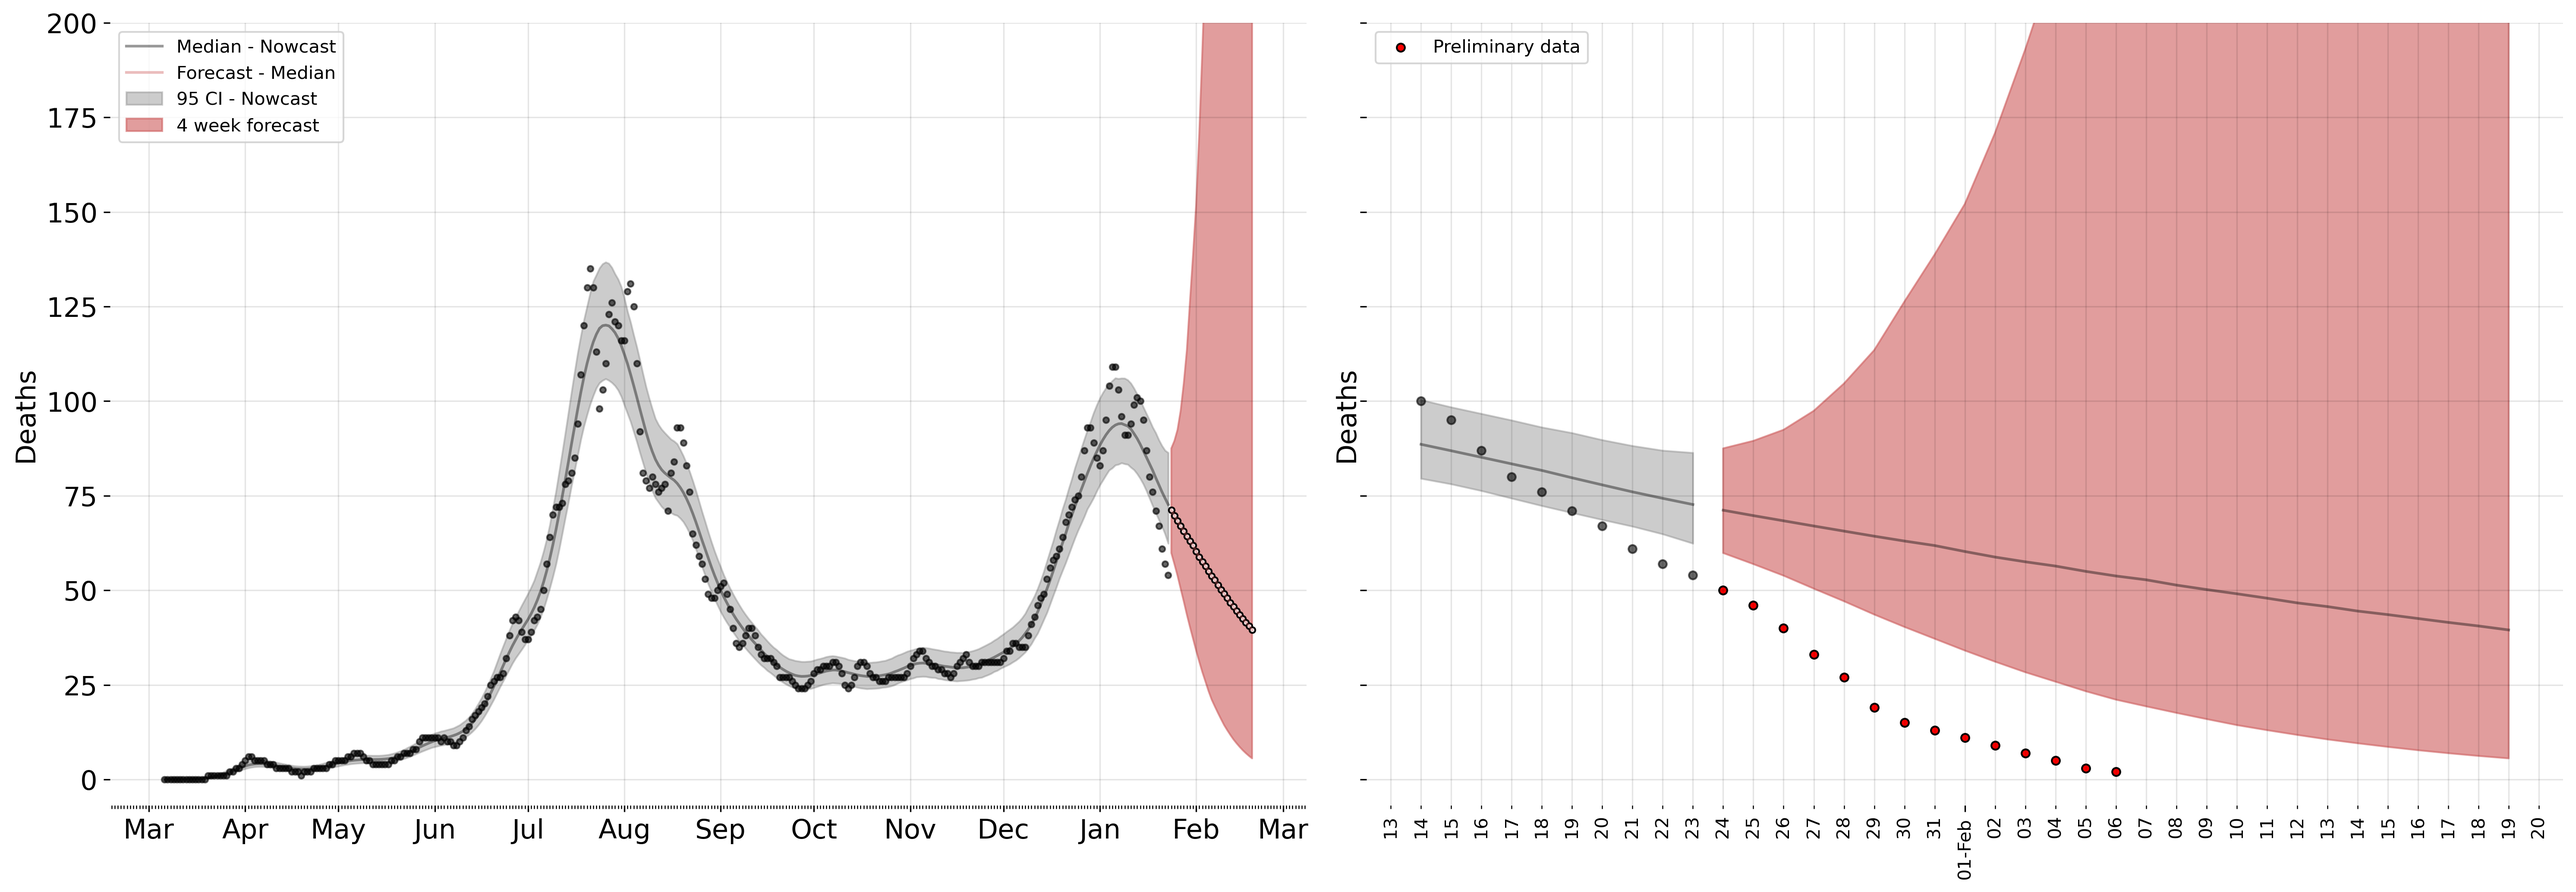
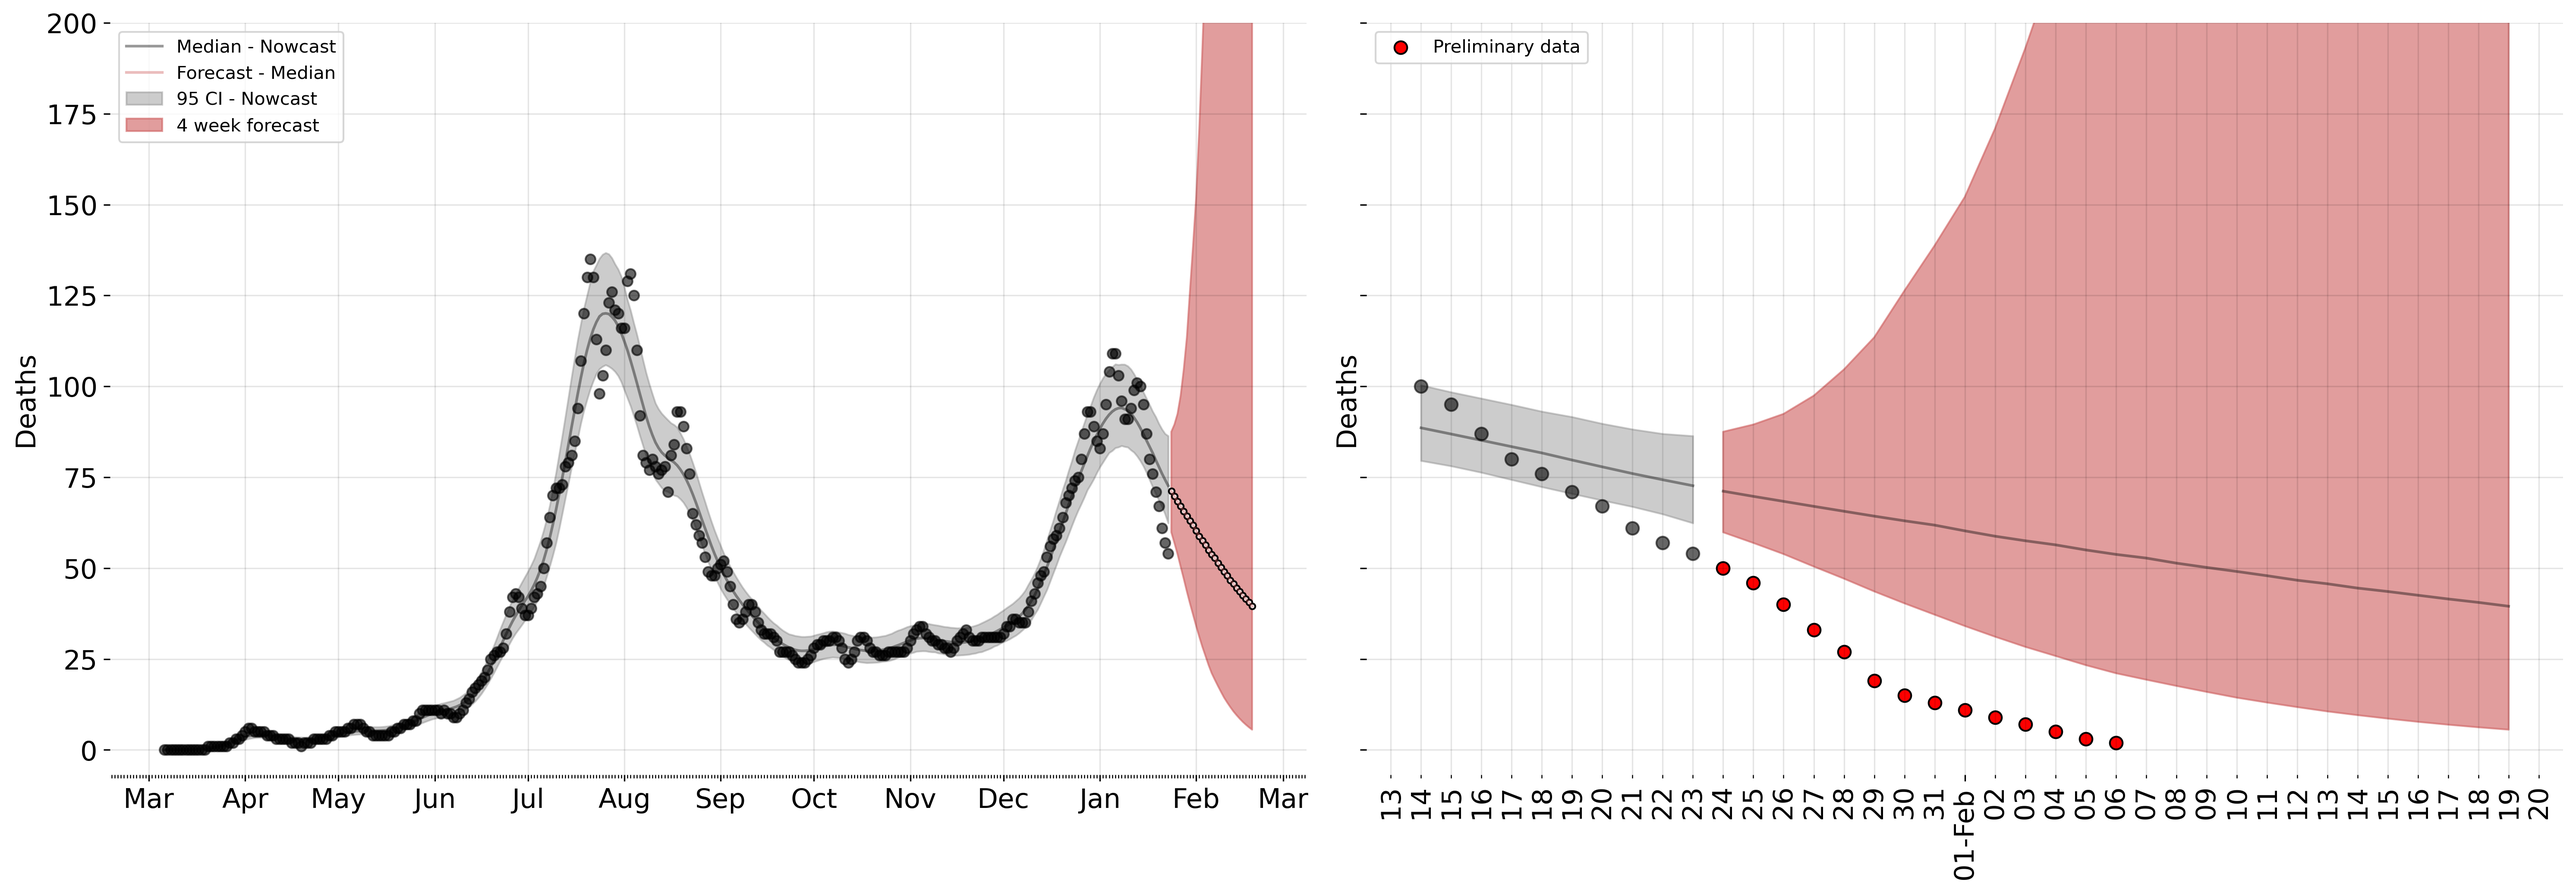
updating marker size

diff --git a/functions/plot_utils.py b/functions/plot_utils.py
@@ -31,7 +31,7 @@ def plot_fit(df_fit, df_data, y_label='Deaths', y_lim_up = 200, color='blue', co
     axes[0].fill_between(df_estimate.index.values, df_estimate[col_down], df_estimate[col_up], color='gray', alpha=0.4, label='95 CI - Nowcast')
     axes[0].plot(df_estimate.index.values, df_estimate[col_point], color='black', alpha=0.4, label='Median - Nowcast')
 
-    axes[0].scatter(df_data_fitted.index.values, df_data_fitted[col_data], facecolor='black', alpha=0.6, edgecolor='black', s=10)
+    axes[0].scatter(df_data_fitted.index.values, df_data_fitted[col_data], facecolor='black', alpha=0.6, edgecolor='black', s=30)
     (y1_l, y2_l) = axes[0].get_ylim()
 
     axes[0].fill_between(df_forecast.index.values, df_forecast[col_down], df_forecast[col_up], color=color, alpha=0.6, label='4 week forecast')
@@ -43,8 +43,8 @@ def plot_fit(df_fit, df_data, y_label='Deaths', y_lim_up = 200, color='blue', co
     axes[1].plot(df_estimate.iloc[-10:].index.values, df_estimate.iloc[-10:][col_point], color='black', alpha=0.4)
     axes[1].fill_between(df_forecast.index.values, df_forecast[col_down], df_forecast[col_up], color=color, alpha=0.6)
     axes[1].plot(df_forecast.index.values, df_forecast[col_point], color='black', alpha=0.4)
-    axes[1].scatter(df_estimate.iloc[-10:].index.values, df_data_fitted.iloc[-10:][col_data], facecolor='black', alpha=0.6, edgecolor='black', s=20)
-    axes[1].scatter(df_data_preliminary.index.values, df_data_preliminary[col_data], edgecolor='k', facecolor='red', s=20, label='Preliminary data')
+    axes[1].scatter(df_estimate.iloc[-10:].index.values, df_data_fitted.iloc[-10:][col_data], facecolor='black', alpha=0.6, edgecolor='black', s=50)
+    axes[1].scatter(df_data_preliminary.index.values, df_data_preliminary[col_data], edgecolor='k', facecolor='red', s=50, label='Preliminary data')
 
 
     for ax in axes:
@@ -71,7 +71,8 @@ def plot_fit(df_fit, df_data, y_label='Deaths', y_lim_up = 200, color='blue', co
 
     axes[1].xaxis.set_major_locator(mdates.WeekdayLocator())
     axes[1].xaxis.set_major_locator(mdates.MonthLocator())
-    axes[1].tick_params(which='both', axis='x', labelrotation=90)
+    axes[1].tick_params(which='both', axis='x', labelrotation=90, labelsize=15)
+
     axes[1].grid(which='both', axis='x', c='k', alpha=.1, zorder=-2)
     axes[0].grid(which='major', axis='x', c='k', alpha=.1, zorder=-2)
     plt.tight_layout()
